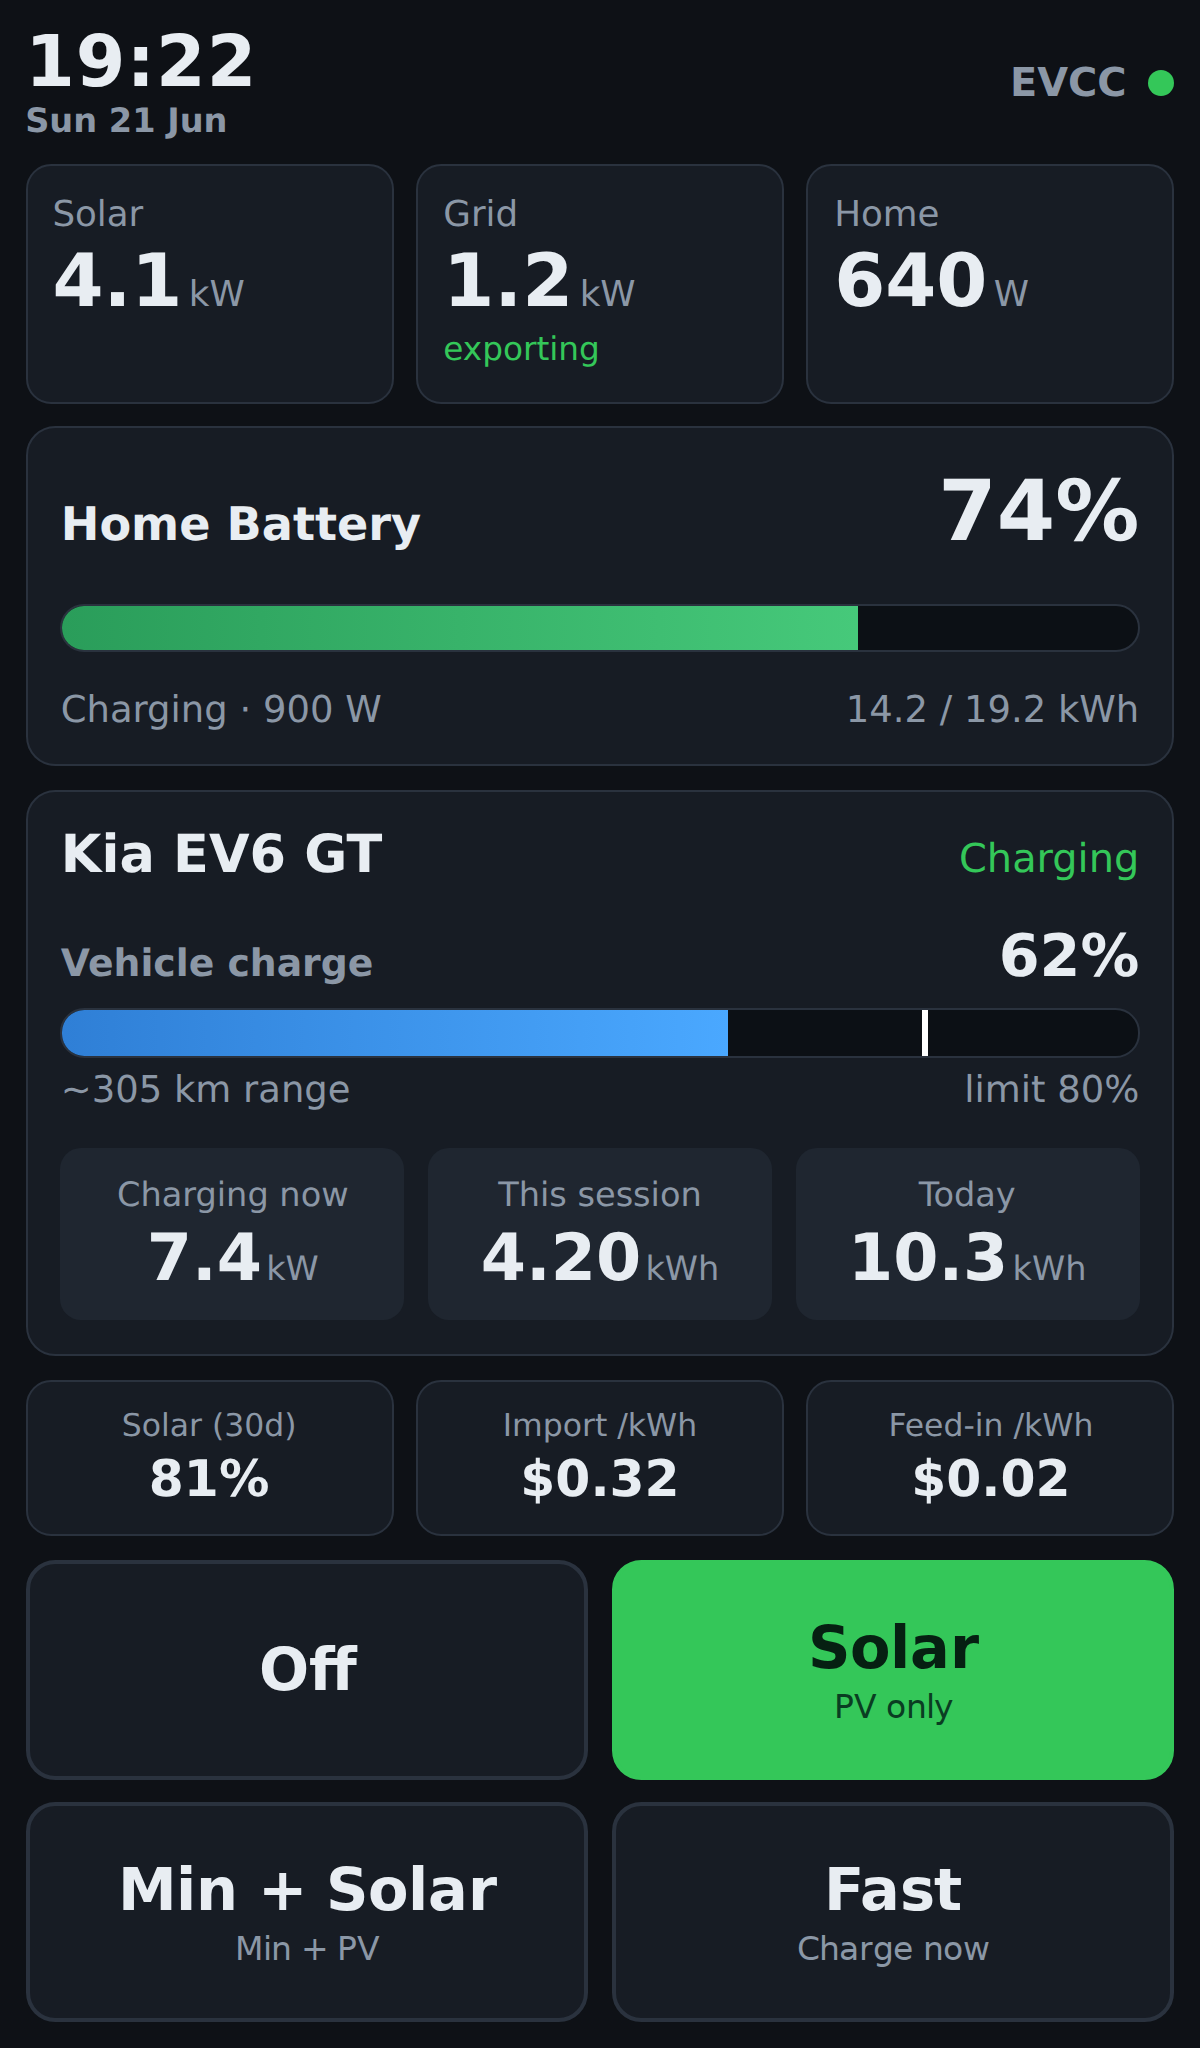
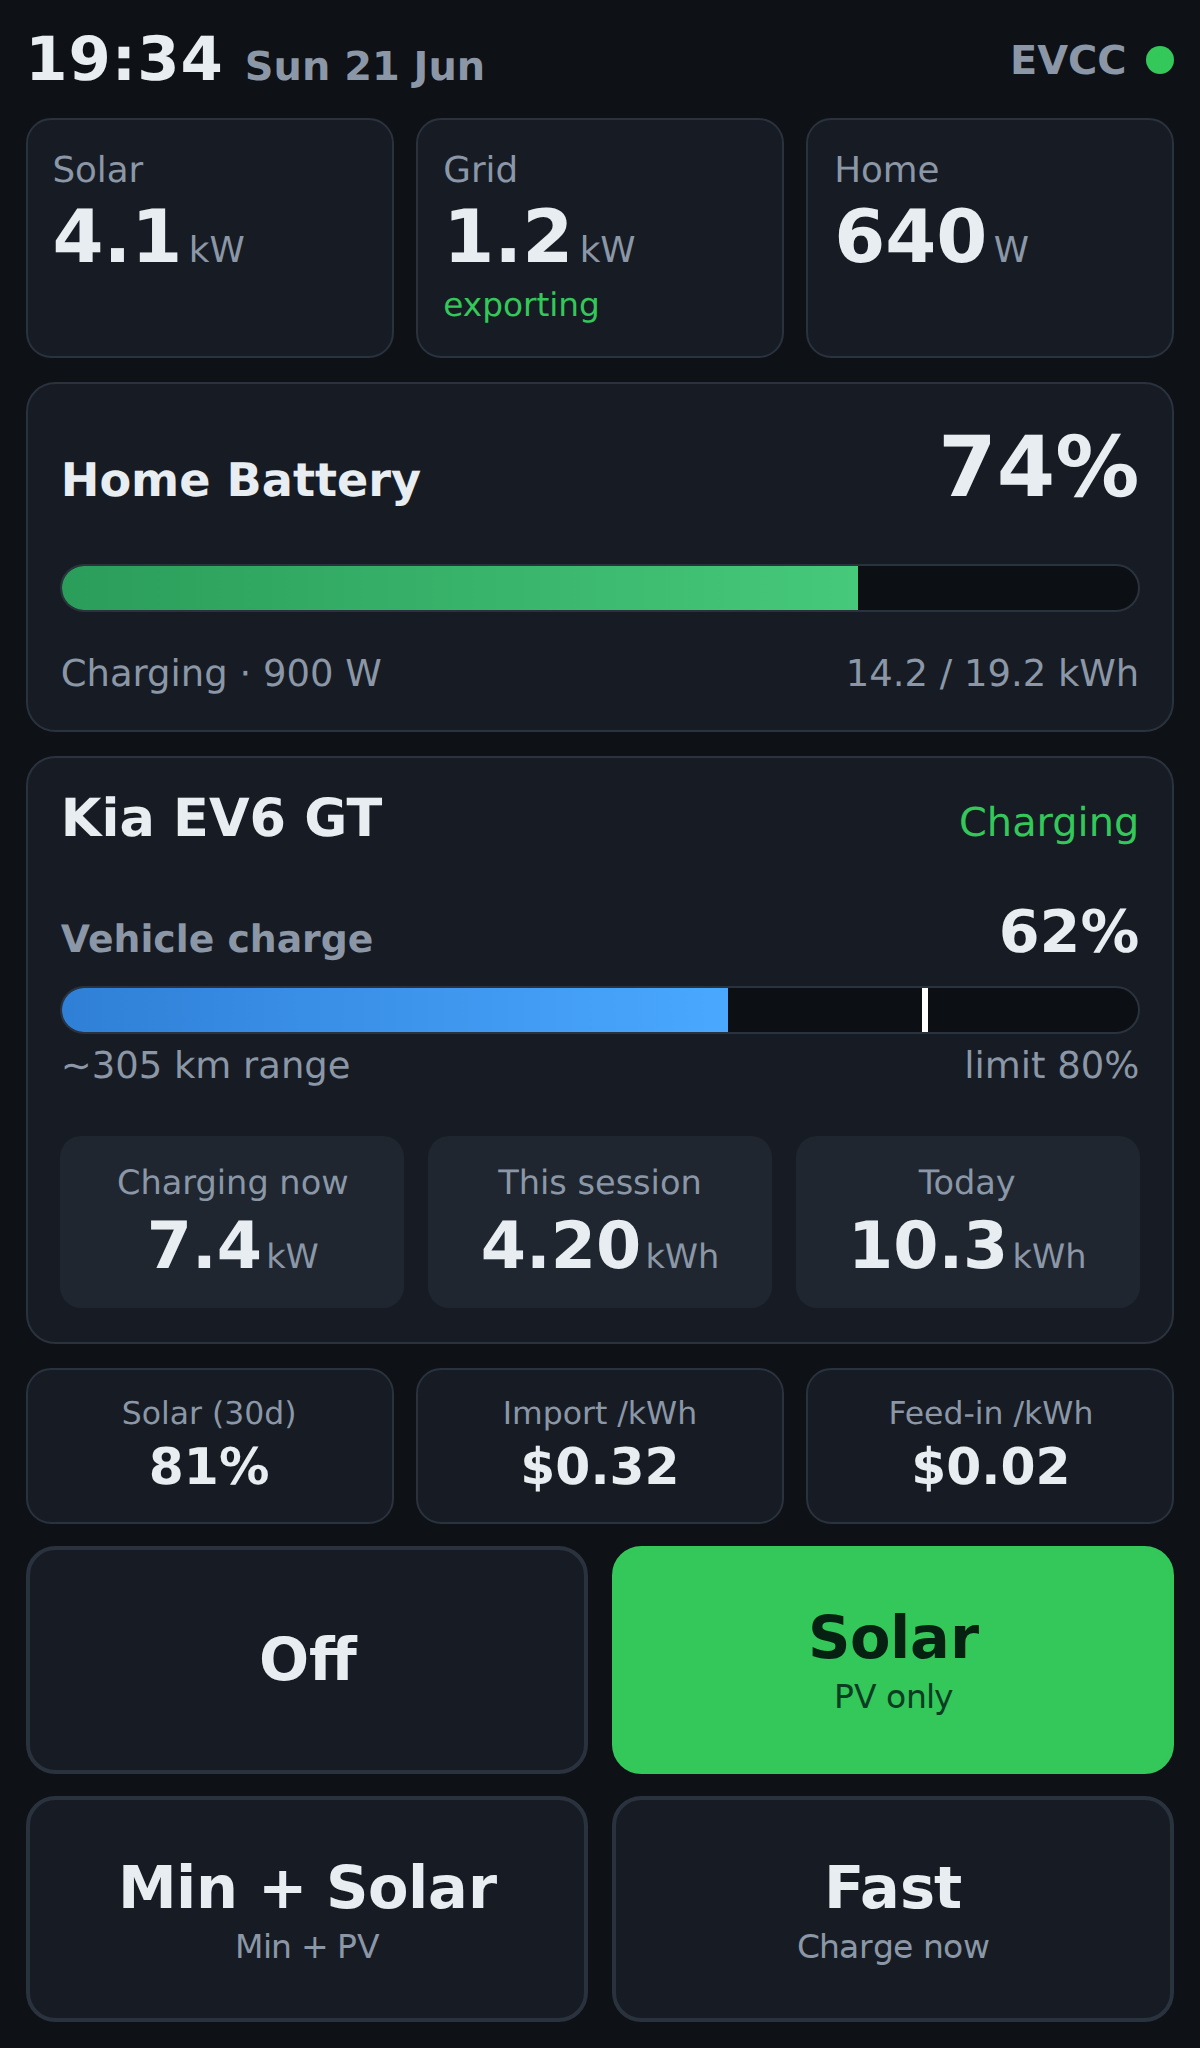
Describe performance setup as current state; put header date/time on one line
Rewrite the README Performance section (and a configure.sh comment) to describe
the system as it is, without referencing previous configurations. Move the kiosk
header's time and date onto a single line and size the EVCC label and status dot
to match. Refresh the README screenshot.

diff --git a/kiosk/index.html b/kiosk/index.html
@@ -38,12 +38,12 @@
   body { display: flex; flex-direction: column; padding: 0.6rem; gap: 0.55rem; }
 
   header { flex: 0 0 auto; display: flex; align-items: center; justify-content: space-between; }
-  .hdr-left { display: flex; flex-direction: column; }
-  #clock { font-size: 1.7rem; font-weight: 800; letter-spacing: 0.5px; line-height: 1.05; }
-  #date { font-size: 0.8rem; color: var(--muted); font-weight: 600; }
-  .hdr-right { display: flex; align-items: center; gap: 0.5rem; }
+  .hdr-left { display: flex; align-items: baseline; gap: 0.5rem; }
+  #clock { font-size: 1.45rem; font-weight: 800; letter-spacing: 0.5px; }
+  #date { font-size: 0.95rem; color: var(--muted); font-weight: 600; }
+  .hdr-right { display: flex; align-items: center; gap: 0.45rem; }
   #site-title { font-size: 0.95rem; color: var(--muted); font-weight: 600; }
-  #conn { display: inline-block; width: 0.65rem; height: 0.65rem; border-radius: 50%; background: var(--idle); }
+  #conn { display: inline-block; width: 0.7rem; height: 0.7rem; border-radius: 50%; background: var(--idle); }
   #conn.ok { background: var(--accent); }
 
   .grid { display: grid; grid-template-columns: 1fr 1fr 1fr; gap: 0.55rem; flex: 0 0 auto; }

diff --git a/README.md b/README.md
@@ -60,25 +60,20 @@ sudo reboot
 
 ## Performance
 
-The Pi Zero 2 W is a modest device (quad-core Cortex-A53 at 1 GHz, 512 MB RAM). The single biggest factor in local kiosk responsiveness is **the UI itself** (see below) — and with a featherweight custom UI in place, the elaborate system tuning the stock EVCC SPA used to need is no longer required.
+The Pi Zero 2 W is a modest device (quad-core Cortex-A53 at 1 GHz, 512 MB RAM), and EVCC's stock single-page app — Vue with an animated SVG energy-flow diagram and charts — is **CPU-bound** on this weak core: rendered locally, each touch takes 2–3 s to repaint, while the same instance is instant from a remote browser running on faster hardware. The CPU is the ultimate limit on how fast that app can repaint here.
 
-What `tweaks.sh` and `configure.sh` still do for the kiosk:
+The local display therefore runs a **custom lightweight UI** instead (see below); it is the single biggest factor in the kiosk's responsiveness. Alongside it, `tweaks.sh` and `configure.sh` apply a few targeted measures:
 
-* **A custom lightweight UI** replaces EVCC's stock web app on the local display (see below) — the dominant reduction in per-touch render work.
-* **An OOM safety ceiling** (`MemoryMax` on `kiosk.service`) caps the browser cgroup so a slow WPEWebKit leak is restarted rather than triggering a system-wide OOM that could take down `evcc`.
-* **Unused services disabled** (`avahi`, `bluetooth`, `rpcbind`) to trim the footprint and attack surface — hygiene, not performance.
+* **OOM safety ceiling** — `MemoryMax` on `kiosk.service` caps the browser cgroup, so a slow WPEWebKit memory leak is restarted rather than triggering a system-wide OOM that could take down `evcc`.
+* **Unused services disabled** — `avahi`, `bluetooth` and `rpcbind` are turned off to trim the footprint and attack surface.
 * **SD-card wear reduction** — volatile journald storage and a tmpfs `/tmp`.
-
-Earlier versions also pinned the CPU governor to `performance`, doubled the zram swap with `lz4`, raised `vm.swappiness`, shrank `gpu_mem`, and added a `MemoryHigh` cgroup throttle plus a `WPE_RAM_SIZE` cache cap — all to keep the CPU- and RAM-hungry stock SPA usable. After switching to the custom UI these were **removed** to reduce complexity; touch stays responsive on the stock `ondemand` governor with the browser sitting at ~62 MiB.
 
 ### The custom kiosk UI
 
-EVCC's stock single-page app (Vue, an animated SVG energy-flow diagram, and charts) is **CPU-bound** on this weak core: each touch took 2–3 s to repaint locally, while the same instance is instant from a remote browser rendering on faster hardware. The CPU is the ultimate limit on how fast that SPA can repaint here.
+The local display loads a purpose-built page, `kiosk/index.html`, installed to `/var/lib/kiosk/index.html` and opened directly by Cog over `file://`:
 
-Rather than fight the SPA, the local display loads a purpose-built page, `kiosk/index.html`, installed to `/var/lib/kiosk/index.html` and opened directly by Cog over `file://`:
-
-* **Plain DOM, inline CSS, vanilla JS** — no framework, no animated SVG, no charts. Each update just rewrites a few text nodes, so a touch is a trivial repaint instead of a full re-render.
-* **Talks directly to EVCC** on `http://localhost:7070` — it reads `/api/state`, streams live updates over the `/ws` websocket, and posts charge-mode changes to `/api/loadpoints/{id}/mode/{mode}`. EVCC sends `Access-Control-Allow-Origin: *` and does not origin-check `/ws`, so the `file://` page needs **no reverse proxy** (one less process and its RAM).
+* **Plain DOM, inline CSS, vanilla JS** — no framework, no animated SVG, no charts. Each update rewrites a few text nodes, so a touch is a trivial repaint rather than a full re-render.
+* **Talks directly to EVCC** on `http://localhost:7070` — it reads `/api/state`, streams live updates over the `/ws` websocket, and posts charge-mode changes to `/api/loadpoints/{id}/mode/{mode}`. EVCC sends `Access-Control-Allow-Origin: *` and does not origin-check `/ws`, so the `file://` page needs **no reverse proxy**.
 * **No external/CDN assets** — fully self-contained for an offline kiosk.
 
-The effect on the binding constraint — RAM and the render work that drove the zram swapping — is large. The browser's resident set dropped from pressing against the old `MemoryHigh=290M` throttle (with heavy zram swap) to **~62 MiB resident**, and system swap use fell from ~350 MiB to ~100 MiB. That headroom is what let the per-touch CPU and RAM tuning be removed.
+The browser's resident set sits at around **62 MiB**, well within the `MemoryMax` ceiling, and zram swap use stays low — light enough that the CPU governor can stay on the stock `ondemand` setting while touch remains responsive.
